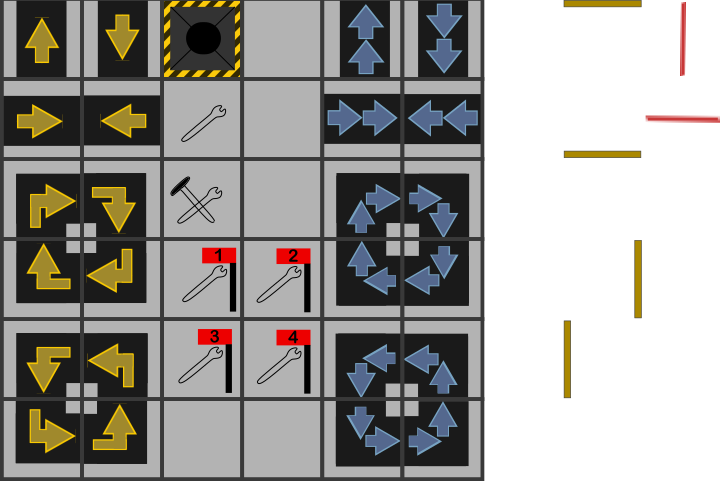
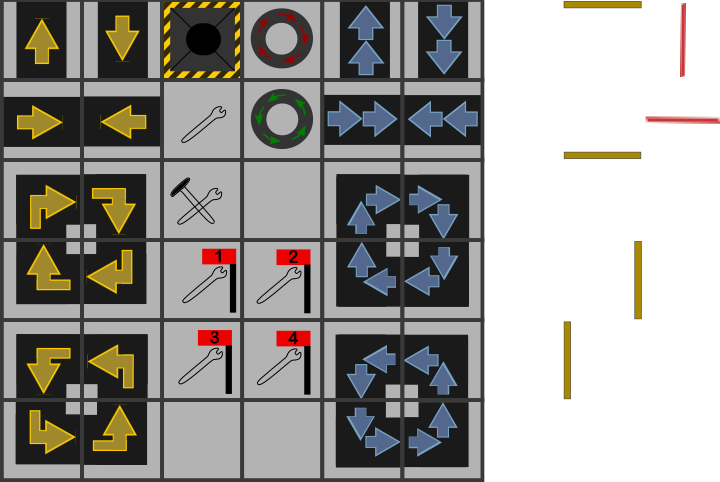
added gears to tileset

diff --git a/assets/drawingtestFredag.tsx b/assets/drawingtestFredag.tsx
@@ -1,6 +1,6 @@
 <?xml version="1.0" encoding="UTF-8"?>
 <tileset version="1.2" tiledversion="1.2.2" name="drawingtest" tilewidth="80" tileheight="80" tilecount="54" columns="9">
- <image source="drawingtestWL.png" width="720" height="481"/>
+ <image source="drawingtestWL.png" width="720" height="482"/>
  <tile id="0">
   <properties>
    <property name="direction" value="up"/>
@@ -21,6 +21,12 @@
   <properties>
    <property name="type" value="hole"/>
    <property name="value" type="int" value="0"/>
+  </properties>
+ </tile>
+ <tile id="3">
+  <properties>
+   <property name="direction" type="bool" value="true"/>
+   <property name="type" value="gear"/>
   </properties>
  </tile>
  <tile id="4">
@@ -45,36 +51,35 @@
    <property name="type" value="wall"/>
   </properties>
  </tile>
- <tile id="8">
+ <tile id="9">
   <properties>
    <property name="position" value="vertical"/>
    <property name="type" value="laser"/>
   </properties>
  </tile>
- <tile id="9">
+ <tile id="10">
   <properties>
    <property name="direction" value="right"/>
    <property name="isExpress" type="bool" value="false"/>
    <property name="type" value="straightArrow"/>
    <property name="value" value="1"/>
-  </properties>
- </tile>
- <tile id="10">
-  <properties>
-   <property name="direction" value="left"/>
-   <property name="isExpress" type="bool" value="false"/>
-   <property name="type" value="straightArrow"/>
-   <property name="value" value="0"/>
   </properties>
  </tile>
  <tile id="11">
   <properties>
-   <property name="name" value="normal"/>
-   <property name="type" value="wrench"/>
-   <property name="value" type="int" value="0"/>
+   <property name="direction" value="left"/>
+   <property name="isExpress" type="bool" value="false"/>
+   <property name="type" value="straightArrow"/>
+   <property name="value" value="0"/>
   </properties>
  </tile>
- <tile id="13">
+ <tile id="12">
+  <properties>
+   <property name="direction" type="bool" value="false"/>
+   <property name="type" value="gear"/>
+  </properties>
+ </tile>
+ <tile id="14">
   <properties>
    <property name="direction" value="right"/>
    <property name="isExpress" type="bool" value="true"/>
@@ -82,7 +87,7 @@
    <property name="value" value="1"/>
   </properties>
  </tile>
- <tile id="14">
+ <tile id="15">
   <properties>
    <property name="direction" value="left"/>
    <property name="isExpress" type="bool" value="true"/>
@@ -90,19 +95,19 @@
    <property name="value" value="0"/>
   </properties>
  </tile>
- <tile id="16">
+ <tile id="18">
   <properties>
    <property name="direction" value="SOUTH"/>
    <property name="type" value="wall"/>
   </properties>
  </tile>
- <tile id="17">
+ <tile id="19">
   <properties>
    <property name="position" value="horizontal"/>
    <property name="type" value="laser"/>
   </properties>
  </tile>
- <tile id="18">
+ <tile id="20">
   <properties>
    <property name="direction" value="right"/>
    <property name="isExpress" type="bool" value="false"/>
@@ -111,7 +116,7 @@
    <property name="value" value="1"/>
   </properties>
  </tile>
- <tile id="19">
+ <tile id="21">
   <properties>
    <property name="direction" value="down"/>
    <property name="isExpress" type="bool" value="false"/>
@@ -120,14 +125,14 @@
    <property name="value" value="3"/>
   </properties>
  </tile>
- <tile id="20">
+ <tile id="22">
   <properties>
    <property name="name" value="hammer"/>
    <property name="type" value="wrench"/>
    <property name="value" type="int" value="-1"/>
   </properties>
  </tile>
- <tile id="22">
+ <tile id="24">
   <properties>
    <property name="direction" value="right"/>
    <property name="isExpress" type="bool" value="true"/>
@@ -136,7 +141,7 @@
    <property name="value" value="1"/>
   </properties>
  </tile>
- <tile id="23">
+ <tile id="25">
   <properties>
    <property name="direction" value="down"/>
    <property name="isExpress" type="bool" value="true"/>
@@ -145,13 +150,13 @@
    <property name="value" value="3"/>
   </properties>
  </tile>
- <tile id="25">
+ <tile id="28">
   <properties>
    <property name="direction" value=""/>
    <property name="type" value="wall"/>
   </properties>
  </tile>
- <tile id="27">
+ <tile id="30">
   <properties>
    <property name="direction" value="up"/>
    <property name="isExpress" type="bool" value="false"/>
@@ -160,7 +165,7 @@
    <property name="value" value="2"/>
   </properties>
  </tile>
- <tile id="28">
+ <tile id="31">
   <properties>
    <property name="direction" value="left"/>
    <property name="isExpress" type="bool" value="false"/>
@@ -169,21 +174,21 @@
    <property name="value" value="0"/>
   </properties>
  </tile>
- <tile id="29">
+ <tile id="32">
   <properties>
    <property name="name" value="flag1"/>
    <property name="type" value="wrench"/>
    <property name="value" type="int" value="1"/>
   </properties>
  </tile>
- <tile id="30">
+ <tile id="33">
   <properties>
    <property name="name" value="flag2"/>
    <property name="type" value="wrench"/>
    <property name="value" type="int" value="2"/>
   </properties>
  </tile>
- <tile id="31">
+ <tile id="34">
   <properties>
    <property name="direction" value="up"/>
    <property name="isExpress" type="bool" value="true"/>
@@ -192,7 +197,7 @@
    <property name="value" value="2"/>
   </properties>
  </tile>
- <tile id="32">
+ <tile id="36">
   <properties>
    <property name="direction" value="left"/>
    <property name="isExpress" type="bool" value="true"/>
@@ -201,48 +206,16 @@
    <property name="value" value="0"/>
   </properties>
  </tile>
- <tile id="34">
+ <tile id="38">
   <properties>
    <property name="direction" value="EAST"/>
    <property name="type" value="wall"/>
   </properties>
  </tile>
- <tile id="36">
-  <properties>
-   <property name="direction" value="down"/>
-   <property name="isExpress" type="bool" value="false"/>
-   <property name="rotate" type="bool" value="false"/>
-   <property name="type" value="leftArrow"/>
-   <property name="value" value="3"/>
-  </properties>
- </tile>
- <tile id="37">
-  <properties>
-   <property name="direction" value="left"/>
-   <property name="isExpress" type="bool" value="false"/>
-   <property name="rotate" type="bool" value="false"/>
-   <property name="type" value="leftArrow"/>
-   <property name="value" value="0"/>
-  </properties>
- </tile>
- <tile id="38">
-  <properties>
-   <property name="name" value="flag3"/>
-   <property name="type" value="wrench"/>
-   <property name="value" type="int" value="3"/>
-  </properties>
- </tile>
- <tile id="39">
-  <properties>
-   <property name="name" value="flag4"/>
-   <property name="type" value="wrench"/>
-   <property name="value" type="int" value="4"/>
-  </properties>
- </tile>
  <tile id="40">
   <properties>
    <property name="direction" value="down"/>
-   <property name="isExpress" type="bool" value="true"/>
+   <property name="isExpress" type="bool" value="false"/>
    <property name="rotate" type="bool" value="false"/>
    <property name="type" value="leftArrow"/>
    <property name="value" value="3"/>
@@ -251,49 +224,63 @@
  <tile id="41">
   <properties>
    <property name="direction" value="left"/>
+   <property name="isExpress" type="bool" value="false"/>
+   <property name="rotate" type="bool" value="false"/>
+   <property name="type" value="leftArrow"/>
+   <property name="value" value="0"/>
+  </properties>
+ </tile>
+ <tile id="42">
+  <properties>
+   <property name="name" value="flag3"/>
+   <property name="type" value="wrench"/>
+   <property name="value" type="int" value="3"/>
+  </properties>
+ </tile>
+ <tile id="43">
+  <properties>
+   <property name="name" value="flag4"/>
+   <property name="type" value="wrench"/>
+   <property name="value" type="int" value="4"/>
+  </properties>
+ </tile>
+ <tile id="45">
+  <properties>
+   <property name="direction" value="down"/>
+   <property name="isExpress" type="bool" value="true"/>
+   <property name="rotate" type="bool" value="false"/>
+   <property name="type" value="leftArrow"/>
+   <property name="value" value="3"/>
+  </properties>
+ </tile>
+ <tile id="46">
+  <properties>
+   <property name="direction" value="left"/>
    <property name="isExpress" type="bool" value="true"/>
    <property name="rotate" type="bool" value="false"/>
    <property name="type" value="leftArrow"/>
    <property name="value" value="0"/>
   </properties>
  </tile>
- <tile id="43">
+ <tile id="48">
   <properties>
    <property name="direction" value="WEST"/>
    <property name="type" value="wall"/>
   </properties>
  </tile>
- <tile id="45">
-  <properties>
-   <property name="direction" value="right"/>
-   <property name="isExpress" type="bool" value="false"/>
-   <property name="rotate" type="bool" value="false"/>
-   <property name="type" value="leftArrow"/>
-   <property name="value" value="1"/>
-  </properties>
- </tile>
- <tile id="46">
-  <properties>
-   <property name="direction" value="up"/>
-   <property name="isExpress" type="bool" value="false"/>
-   <property name="rotate" type="bool" value="false"/>
-   <property name="type" value="leftArrow"/>
-   <property name="value" value="2"/>
-  </properties>
- </tile>
- <tile id="49">
-  <properties>
-   <property name="direction" value="right"/>
-   <property name="isExpress" type="bool" value="true"/>
-   <property name="rotate" type="bool" value="false"/>
-   <property name="type" value="leftArrow"/>
-   <property name="value" value="1"/>
-  </properties>
- </tile>
  <tile id="50">
   <properties>
+   <property name="direction" value="right"/>
+   <property name="isExpress" type="bool" value="false"/>
+   <property name="rotate" type="bool" value="false"/>
+   <property name="type" value="leftArrow"/>
+   <property name="value" value="1"/>
+  </properties>
+ </tile>
+ <tile id="51">
+  <properties>
    <property name="direction" value="up"/>
-   <property name="isExpress" type="bool" value="true"/>
+   <property name="isExpress" type="bool" value="false"/>
    <property name="rotate" type="bool" value="false"/>
    <property name="type" value="leftArrow"/>
    <property name="value" value="2"/>
